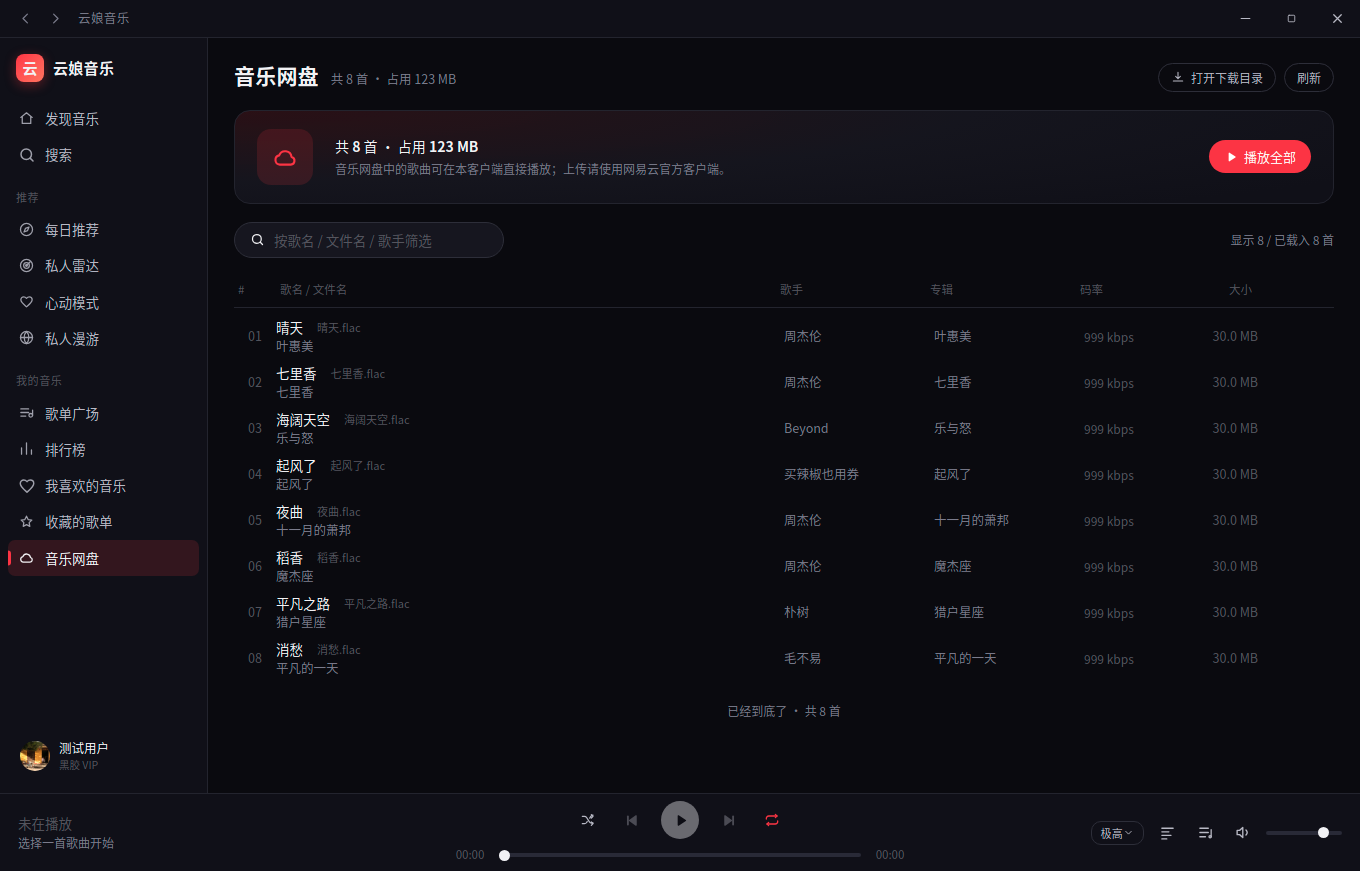
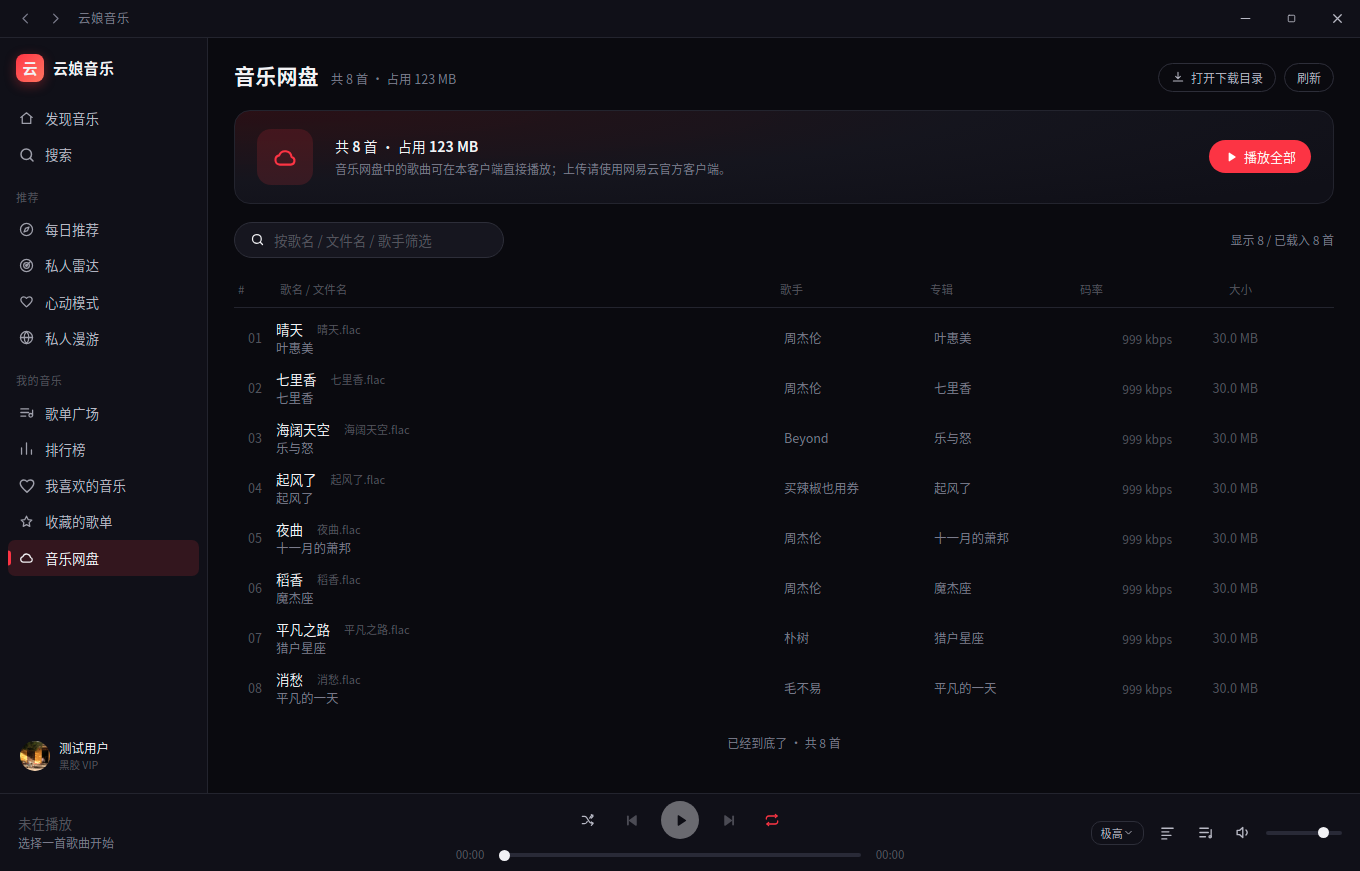
docs: 添加 MIT LICENSE、徽章、截图展示与免责声明，为开源发布做准备

diff --git a/README.md b/README.md
@@ -1,10 +1,42 @@
-# 云娘音乐 (Yunniang Music)
+# 云娘音乐 · Yunniang Music
 
-> 为 Linux 打造的网易云音乐桌面客户端。支持网易云账号登录、**无损 / Hi-Res / 母带音质**、每日推荐、私人雷达、心动模式、私人漫游、歌单广场、排行榜、我喜欢的音乐、收藏的歌单、音乐网盘，以及滚动歌词与桌面歌词。
+**为 Linux 打造的网易云音乐桌面客户端** —— 无损音质 · 每日推荐 · 私人雷达 · 心动模式 · 私人漫游 · 音乐网盘
 
-因为网易云音乐官方从未提供 Linux 安装包，第三方客户端又往往功能残缺或体验粗糙，所以本项目从零实现了一个完整可用的 Linux 原生客户端。
+[![License: MIT](https://img.shields.io/badge/License-MIT-yellow.svg)](LICENSE)
+[![Platform](https://img.shields.io/badge/platform-Linux%20x86__64-informational)](https://github.com)
+[![Electron](https://img.shields.io/badge/Electron-33-47848F?logo=electron&logoColor=white)](https://www.electronjs.org/)
+[![React](https://img.shields.io/badge/React-18-61DAFB?logo=react&logoColor=black)](https://react.dev/)
+[![TypeScript](https://img.shields.io/badge/TypeScript-5.7-3178C6?logo=typescript&logoColor=white)](https://www.typescriptlang.org/)
+
+> 因为网易云音乐官方从未提供 Linux 安装包，第三方客户端又往往功能残缺或体验粗糙，
+> 所以本项目从零实现了一个完整可用的 Linux 原生客户端。
 
 ![登录界面](docs/screenshots/login.png)
+
+<table>
+  <tr>
+    <td width="50%"><img src="docs/screenshots/home.png" alt="发现音乐"><br/><sub><b>发现音乐</b></sub></td>
+    <td width="50%"><img src="docs/screenshots/heart.png" alt="心动模式"><br/><sub><b>心动模式</b></sub></td>
+  </tr>
+  <tr>
+    <td width="50%"><img src="docs/screenshots/cloud.png" alt="音乐网盘"><br/><sub><b>音乐网盘</b></sub></td>
+    <td width="50%"><img src="docs/screenshots/rank.png" alt="排行榜"><br/><sub><b>排行榜</b></sub></td>
+  </tr>
+</table>
+
+---
+
+## ⚠ 免责声明
+
+**本项目仅供个人学习与技术研究使用，严禁任何商业用途。**
+
+- 本项目**不提供、不存储、不分发**任何音乐内容，所有音乐数据均实时来自网易云音乐官方服务器
+- 音乐版权归**网易云音乐及各版权方**所有
+- 使用本项目可能违反《网易云音乐服务条款》，**由此产生的一切后果由使用者自行承担**
+- 本项目与网易云音乐官方**无任何关联**，"网易云音乐" 是其权利人的商标
+- 请使用你自己的账号，并遵守当地法律法规
+
+如果你喜欢这些音乐，**请支持正版**，购买会员或数字专辑。
 
 ---
 
@@ -319,7 +351,39 @@ npx electron scripts/visual-test.js
 
 ---
 
+---
+
+## 贡献
+
+欢迎提交 Issue 与 PR。
+
+```bash
+git clone <your-fork>
+cd yunniang-music
+npm install
+npm install-scripts approve electron esbuild   # npm 11+ 需要授权安装脚本
+npm run dev
+```
+
+提交前请确保：
+
+```bash
+npx tsc --noEmit     # 零类型错误
+npm run build        # 构建通过
+```
+
+代码风格约定见 [CONVENTIONS.md](CONVENTIONS.md)。
+
+---
+
+## Star History
+
+如果这个项目对你有帮助，欢迎点个 ⭐
+
+---
+
 ## 致谢
 
-- [NeteaseCloudMusicApi](https://github.com/Binaryify/NeteaseCloudMusicApi) — MIT，提供本地接口层
-- [Electron](https://www.electronjs.org/) / [React](https://react.dev/) / [Vite](https://vitejs.dev/) / [zustand](https://zustand-demo.pmnd.rs/)
+- [NeteaseCloudMusicApi](https://github.com/Binaryify/NeteaseCloudMusicApi) — MIT，本地接口层
+- [Electron](https://www.electronjs.org/) · [React](https://react.dev/) · [Vite](https://vitejs.dev/) · [zustand](https://zustand-demo.pmnd.rs/)
+- 图标为手写 SVG，无第三方图标库依赖
